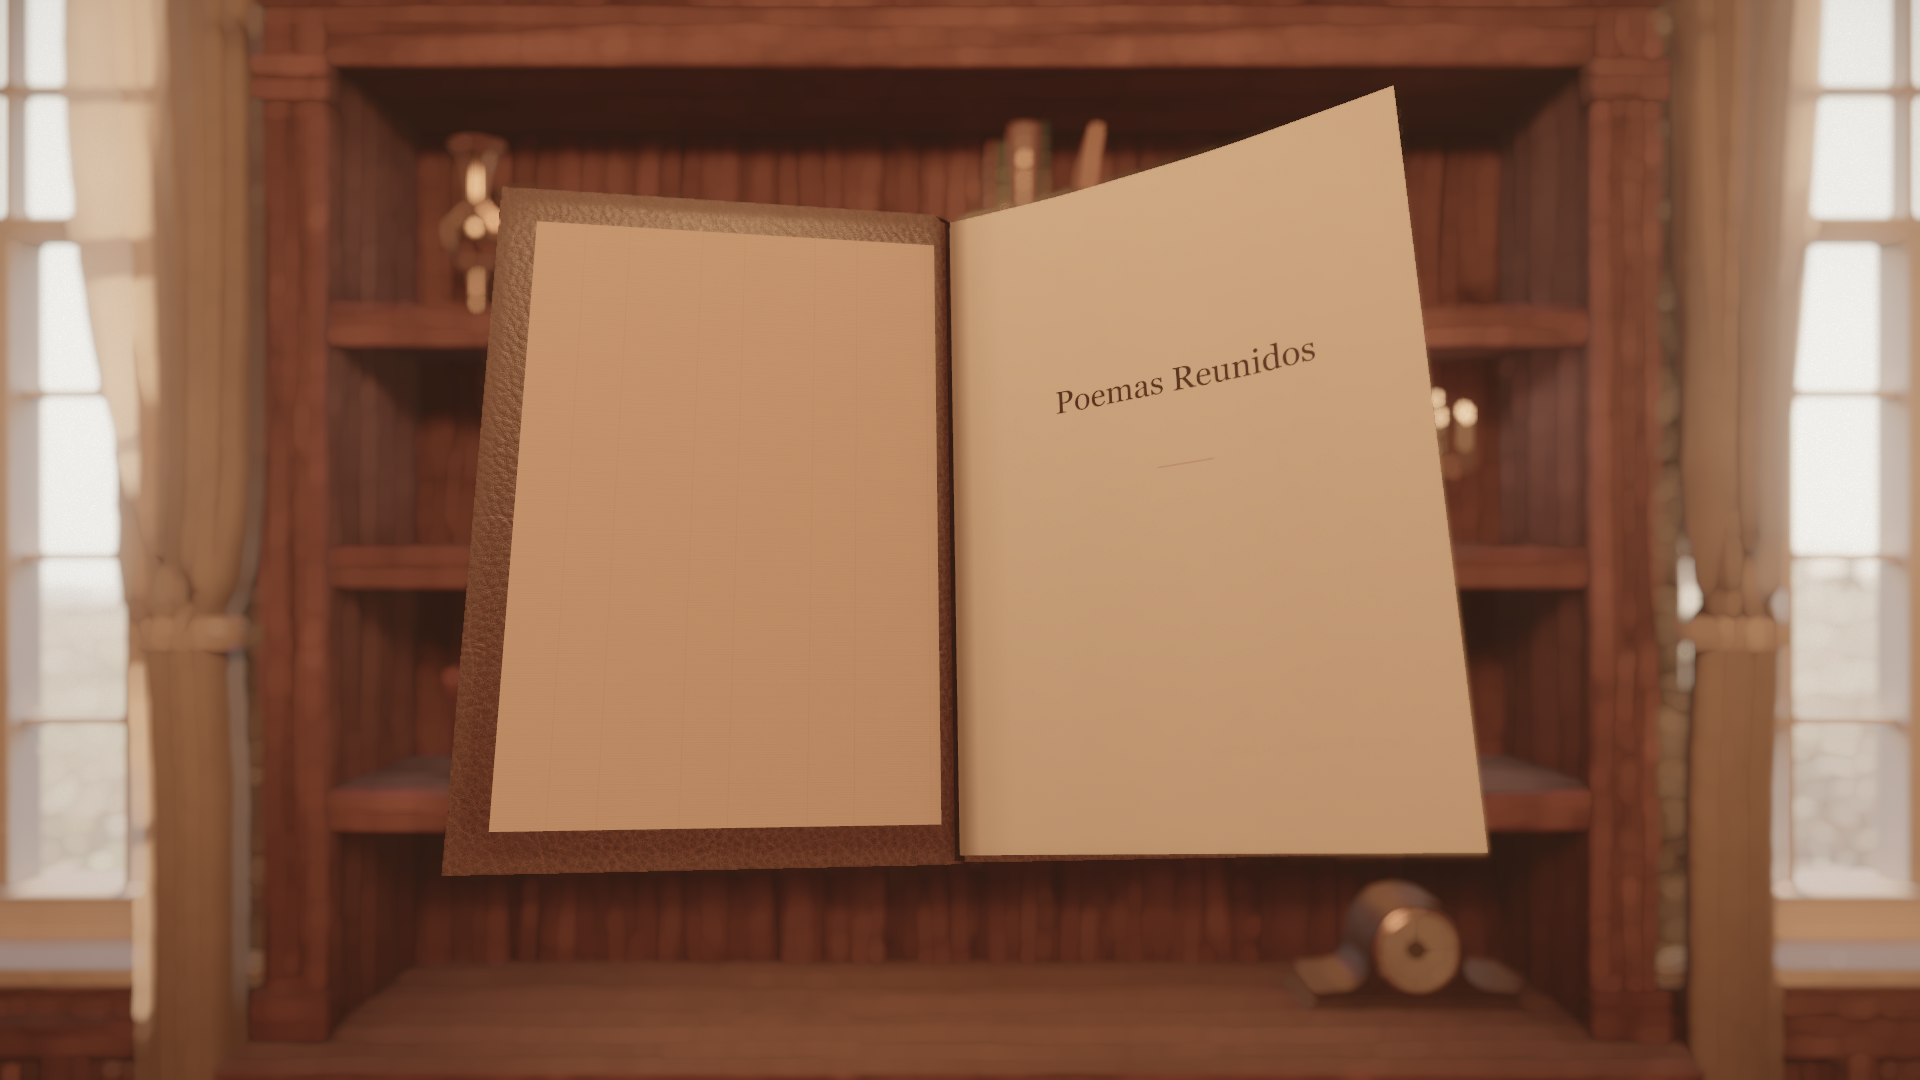
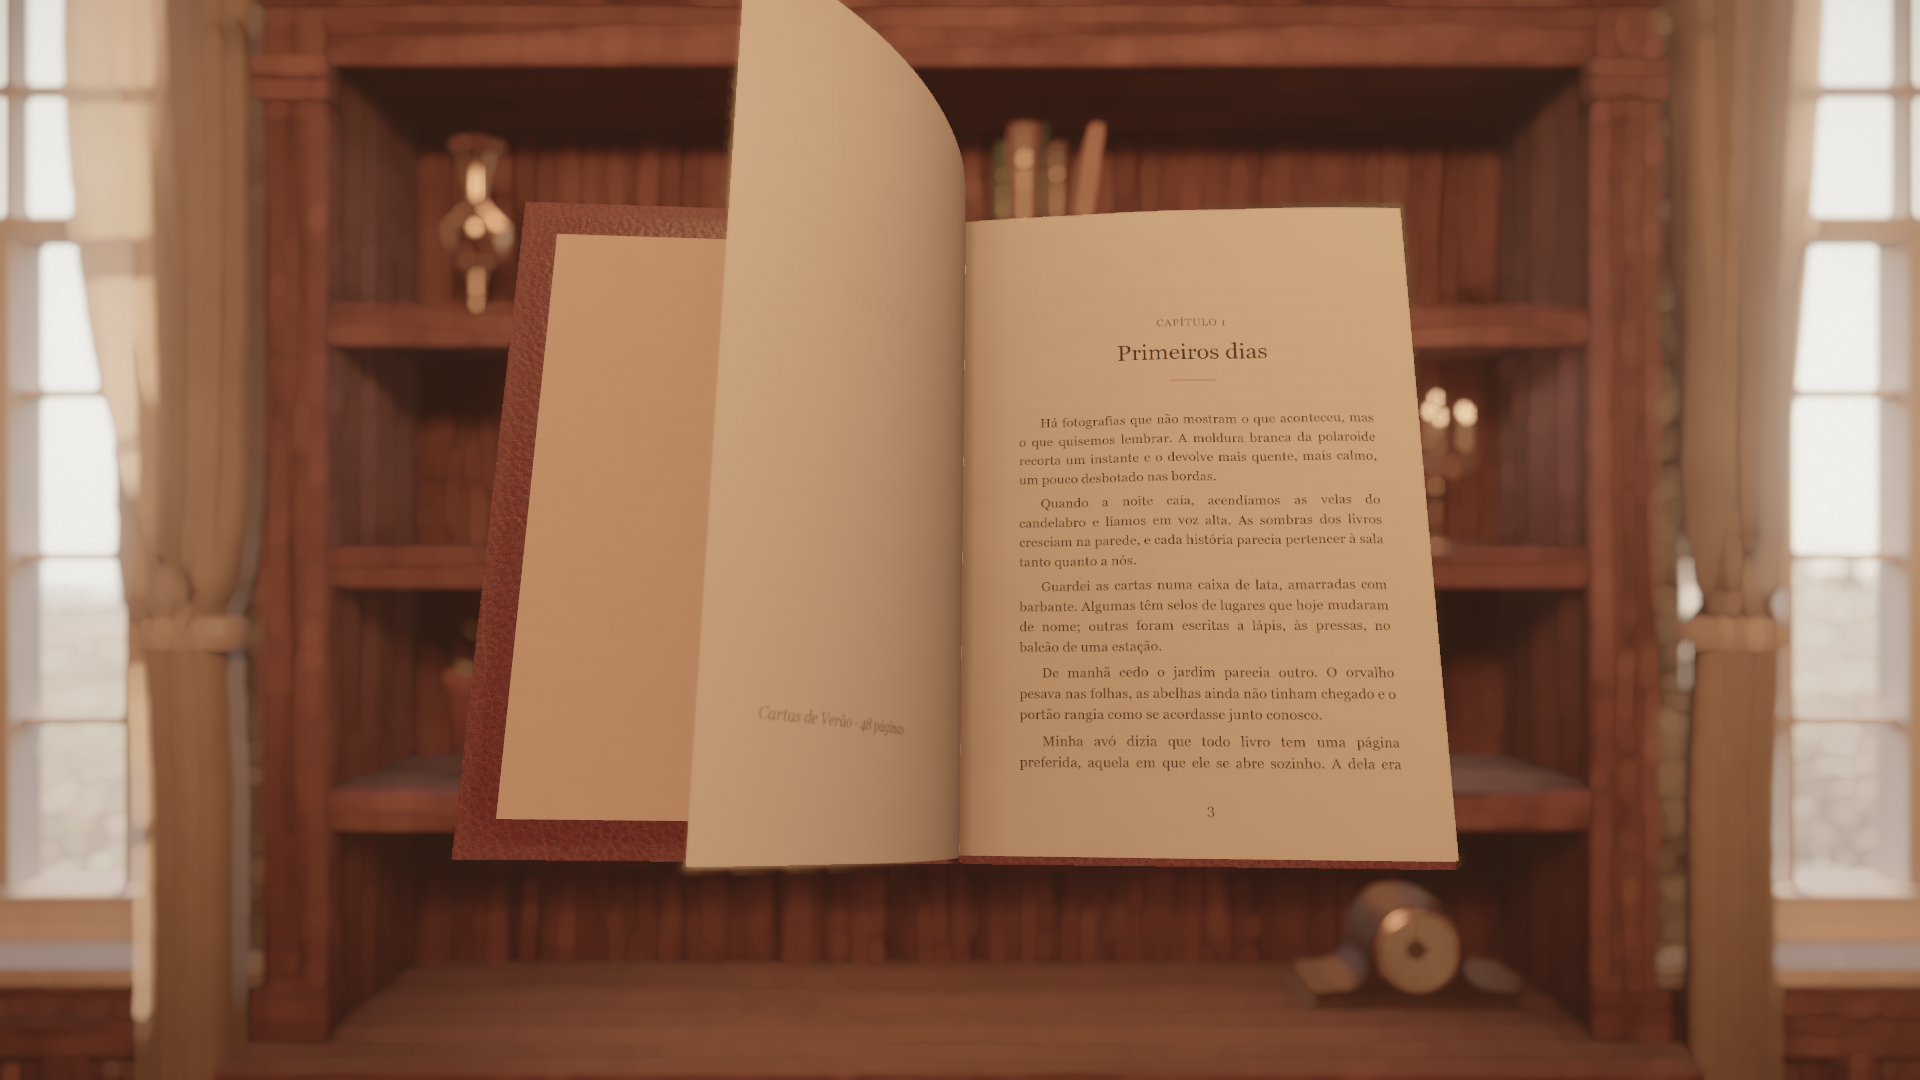
fase 4: contracapa sem papel por cima ao virar a última folha; texto idêntico no folhear rápido
- folhas no ar não contam em nenhuma pilha
- tamanhos de fonte/margens fracionários: mesmas quebras de linha em qualquer resolução
- texturas do voo a 768 px; destino pré-desenhado em tamanho cheio

Changed region(s): [[0.2188, 0.0, 0.7812, 0.825], [0.5938, 0.3056, 0.6875, 0.3667], [0.5312, 0.7028, 0.5938, 0.7333]]

diff --git a/src/book/reader/pageContent.ts b/src/book/reader/pageContent.ts
@@ -107,7 +107,7 @@ export function drawPage(book: PageBook, page: number, aspect: number, H: number
     const off = document.createElement('canvas')
     off.width = W
     off.height = H
-    drawContent(off.getContext('2d')!, book, back, W, H)
+    drawContent(off.getContext('2d')!, book, back, H * aspect, H)
     ctx.save()
     // faint, and half a line off: the two sides never print on exactly the same baselines
     ctx.globalAlpha = 0.03
@@ -116,7 +116,7 @@ export function drawPage(book: PageBook, page: number, aspect: number, H: number
     ctx.drawImage(off, 0, Math.round(H * 0.015))
     ctx.restore()
   }
-  drawContent(ctx, book, page, W, H)
+  drawContent(ctx, book, page, H * aspect, H)
 
   // gutter: the paper curves into the binding and darkens
   const gw = W * 0.11
@@ -130,10 +130,12 @@ export function drawPage(book: PageBook, page: number, aspect: number, H: number
 }
 
 /** The printed part of a page (no paper): title page, colophon or running head + body + folio. */
+// sizes are fractions of the page, never rounded: the same page lays out line for line at any resolution
+// (rounded font sizes reflowed the text between the riffle textures and the full-size ones)
 function drawContent(ctx: CanvasRenderingContext2D, book: PageBook, page: number, W: number, H: number) {
   const recto = page % 2 === 1
-  const inner = Math.round(W * 0.13)
-  const outer = Math.round(W * 0.1)
+  const inner = W * 0.13
+  const outer = W * 0.1
   const left = recto ? inner : outer
   const textW = W - inner - outer
   ctx.textBaseline = 'alphabetic'
@@ -142,12 +144,12 @@ function drawContent(ctx: CanvasRenderingContext2D, book: PageBook, page: number
     if (page === 1) {
       ctx.fillStyle = INK
       ctx.textAlign = 'center'
-      ctx.font = `${Math.round(H * 0.05)}px ${SERIF}`
+      ctx.font = `${H * 0.05}px ${SERIF}`
       const title = book.title
       ctx.fillText(title, left + textW / 2, H * 0.36, textW)
       if (book.subtitle) {
         ctx.fillStyle = INK_SOFT
-        ctx.font = `italic ${Math.round(H * 0.026)}px ${SERIF}`
+        ctx.font = `italic ${H * 0.026}px ${SERIF}`
         ctx.fillText(book.subtitle, left + textW / 2, H * 0.36 + H * 0.05, textW)
       }
       // small rule
@@ -161,7 +163,7 @@ function drawContent(ctx: CanvasRenderingContext2D, book: PageBook, page: number
     } else if (page === 2) {
       ctx.fillStyle = INK_SOFT
       ctx.textAlign = 'left'
-      ctx.font = `italic ${Math.round(H * 0.018)}px ${SERIF}`
+      ctx.font = `italic ${H * 0.018}px ${SERIF}`
       ctx.fillText(`${book.title} · ${book.pageCount} páginas`, left, H * 0.86, textW)
     } else {
       const chapter = chapterAt(book, page)
@@ -171,10 +173,10 @@ function drawContent(ctx: CanvasRenderingContext2D, book: PageBook, page: number
         const cx = left + textW / 2
         ctx.textAlign = 'center'
         ctx.fillStyle = INK_SOFT
-        ctx.font = `${Math.round(H * 0.017)}px ${SERIF}`
+        ctx.font = `${H * 0.017}px ${SERIF}`
         ctx.fillText(`CAPÍTULO ${chapter.chapter}`.split('').join(String.fromCharCode(8202)), cx, H * 0.2, textW)
         ctx.fillStyle = INK
-        ctx.font = `${Math.round(H * 0.036)}px ${SERIF}`
+        ctx.font = `${H * 0.036}px ${SERIF}`
         ctx.fillText(chapter.title, cx, H * 0.255, textW)
         ctx.strokeStyle = '#A5824B'
         ctx.lineWidth = Math.max(1, H / 600)
@@ -187,13 +189,13 @@ function drawContent(ctx: CanvasRenderingContext2D, book: PageBook, page: number
         // running head (a touch larger and darker: it read faint)
         ctx.fillStyle = INK_HEAD
         ctx.textAlign = 'center'
-        ctx.font = `italic ${Math.round(H * 0.021)}px ${SERIF}`
+        ctx.font = `italic ${H * 0.021}px ${SERIF}`
         ctx.fillText(book.title, left + textW / 2, H * 0.075, textW)
       }
       // body
       ctx.fillStyle = INK
       ctx.textAlign = 'left'
-      const size = Math.round(H * 0.0205)
+      const size = H * 0.0205
       ctx.font = `${size}px ${SERIF}`
       const lineH = size * 1.48
       const maxY = H * 0.88
@@ -209,7 +211,7 @@ function drawContent(ctx: CanvasRenderingContext2D, book: PageBook, page: number
       // folio
       ctx.fillStyle = INK_SOFT
       ctx.textAlign = 'center'
-      ctx.font = `${Math.round(H * 0.02)}px ${SERIF}`
+      ctx.font = `${H * 0.02}px ${SERIF}`
       ctx.fillText(String(page), left + textW / 2, H * 0.94)
     }
   }

diff --git a/src/book/reader/BookReader.tsx b/src/book/reader/BookReader.tsx
@@ -19,7 +19,7 @@ const EPS = 0.0002
 /** sheets that can be in the air at once (riffle: flight time / launch gap, rounded up) */
 const SHEET_POOL = 7
 /** page textures while riffling (px high) */
-const RIFFLE_TEX_HEIGHT = 512
+const RIFFLE_TEX_HEIGHT = 768
 
 interface Flight {
   front: number
@@ -76,6 +76,7 @@ export function BookReader({ book, d, openState, coverMesh, spineFoil, rightStac
   const leftPage = useRef<Mesh>(null)
   const sheetRefs = useRef<(Mesh | null)[]>([])
   const scratch = useMemo(() => ({ q: new Quaternion(), p: new Vector3(), r: new Vector3() }), [])
+  const lastRiffle = useRef<object | null>(null)
 
   const T = d.totalThickness / 2
   const W = d.pageWidth
@@ -160,7 +161,7 @@ export function BookReader({ book, d, openState, coverMesh, spineFoil, rightStac
     const { sheets, turned, turn, riffle } = useReader.getState()
     const theta = OPEN_ANGLE * (openState.current?.cover ?? 0)
     // one sheet turning (or none), or a riffle with several flights in the air
-    let lay: { left: number | null; right: number | null; flights: Flight[]; leftSheets: number }
+    let lay: { left: number | null; right: number | null; flights: Flight[]; leftSheets: number; rightSheets: number }
     if (riffle) {
       const rl = layoutRiffle(sheets, riffle)
       lay = { ...rl, flights: rl.flights.map((f) => ({ ...f, dir: riffle.dir })) }
@@ -174,9 +175,18 @@ export function BookReader({ book, d, openState, coverMesh, spineFoil, rightStac
         right: pl.right,
         flights: tr ? [{ front: tr.front, back: tr.back, t: tr.t, dir: turn?.target === 0 ? -1 : 1 }] : [],
         leftSheets: tr ? tr.sheet : pl.leftSheets,
+        // …nor to the right one: on the last spread the right side stays the back endpaper
+        rightSheets: tr ? sheets - tr.sheet - 1 : sheets - pl.leftSheets,
       }
     }
     const tex = riffle ? quick : textures
+    if (riffle && riffle !== lastRiffle.current && lastRiffle.current === null) {
+      // a riffle starts: draw the destination spread at full size now, so the landing shows it right away
+      const dest = layoutPages(sheets, riffle.bounds[riffle.bounds.length - 1], null)
+      if (dest.left !== null) textures.get(dest.left)
+      if (dest.right !== null) textures.get(dest.right)
+    }
+    lastRiffle.current = riffle
     const split = stackSplit(d.blockThickness, sheets, lay.leftSheets)
     const t = d.blockThickness / 2
     const xb = -t + split.right
@@ -213,9 +223,11 @@ export function BookReader({ book, d, openState, coverMesh, spineFoil, rightStac
     // the two stacks partition the closed text block [−t, t] at xb
     const rs = rightStack.current
     if (rs) {
-      setShown(rs, split.right > 1e-6)
-      rs.scale.x = Math.max(split.right / block, 1e-4)
-      rs.position.x = -t + split.right / 2
+      // without the sheets in the air (the hinge stays at xb, so the pages under them do not jump)
+      const right = (block * lay.rightSheets) / Math.max(1, sheets)
+      setShown(rs, right > 1e-6)
+      rs.scale.x = Math.max(right / block, 1e-4)
+      rs.position.x = -t + right / 2
     }
     const ls = leftStack.current
     if (ls) {

diff --git a/src/book/reader/pages.ts b/src/book/reader/pages.ts
@@ -97,6 +97,8 @@ export interface RiffleLayout {
   flights: { front: number; back: number; t: number }[]
   /** sheets on the left stack (the ones in the air belong to neither until they land) */
   leftSheets: number
+  /** sheets on the right stack (likewise without the ones in the air) */
+  rightSheets: number
   /** sheets turned so far (landed) */
   turned: number
 }
@@ -117,6 +119,7 @@ export function layoutRiffle(sheets: number, r: Riffle): RiffleLayout {
       return { front: recto(lo), back: verso(hi - 1), t }
     }),
     leftSheets: leftAt,
+    rightSheets: sheets - rightAt,
     turned: landedAt,
   }
 }

diff --git a/src/book/reader/pages.test.ts b/src/book/reader/pages.test.ts
@@ -81,6 +81,8 @@ describe('riffle (sumário)', () => {
     expect([l.left, l.right]).toEqual([20, 41])
     expect(l.flights).toEqual([{ front: 21, back: 40, t: 0.4 }])
     expect(l.leftSheets).toBe(10)
+    // the 10 sheets in the air are on neither stack
+    expect(l.rightSheets).toBe(30)
     expect(l.turned).toBe(10)
   })
 

diff --git a/docs/look-dev/iteracoes.md b/docs/look-dev/iteracoes.md
@@ -109,3 +109,7 @@ Cada entrada: data/hora, o que mudou, notas por critério (art-reviewer), diverg
 ### R5 — 2026-10-16 (sumário e folhear rápido, pedidos do usuário)
 - Livro aberto sem giro próprio (só a inclinação para a estante, "V" dividido igualmente); curvatura das páginas cresce com o ângulo da capa (sem atravessar a capa na abertura); sumário à esquerda; ir a um capítulo folheia rápido (até 14 voos, até 7 folhas no ar, 142 draw calls); páginas de abertura de capítulo.
 - **art-reviewer:** nada regrediu — "pronto para o usuário". Aplicado depois: sumário mais estreito (encostava na página esquerda a 1280 px), destaque do destino durante o folhear, página anterior a um capítulo termina curta.
+
+### R6 — 2026-10-16 (teste do usuário: contracapa e folhear rápido)
+- Virando a última folha, a direita mostrava papel no lugar da guarda de trás: a folha no ar ainda contava na pilha direita. Agora ela não conta em nenhuma das duas (a dobradiça fica onde estava, as páginas de baixo não pulam).
+- No folhear rápido o texto "mudava de estilo" e voltava ao parar: os tamanhos de fonte eram arredondados por resolução, e a textura pequena quebrava as linhas em outros lugares. Tamanhos e margens agora são frações exatas da página (mesmas quebras em qualquer resolução, conferido lado a lado a 768 e 1536 px); texturas do voo a 768 px; a página de destino é desenhada em tamanho cheio quando o folhear começa.

diff --git a/docs/decisoes.md b/docs/decisoes.md
@@ -258,3 +258,9 @@ Formato de cada entrada:
 - Draw calls: 142 medidos no meio do folhear (e2e do sumário verifica < 150).
 - Como reverter: `goTo`/`stepRiffle` em `useReader.ts`, `ReaderToc` em `SelectionPanel.tsx`.
 - Precisa do usuário? não.
+
+## 2026-10-16 — Folhas no ar fora das duas pilhas; texto igual em qualquer resolução
+- Contexto: o usuário viu papel no lugar da contracapa ao virar a última folha, e o texto mudando de estilo durante o folhear rápido.
+- Escolha: folhas no ar não contam em nenhuma pilha (a pilha direita perde a espessura delas, a dobradiça não se move). O desenho da página usa tamanhos fracionários (sem `Math.round`), então a textura do voo e a final têm as mesmas linhas; voo a 768 px; destino pré-desenhado em tamanho cheio.
+- Como reverter: `rightSheets` em `pages.ts`/`BookReader.tsx`; `RIFFLE_TEX_HEIGHT`.
+- Precisa do usuário? não.
